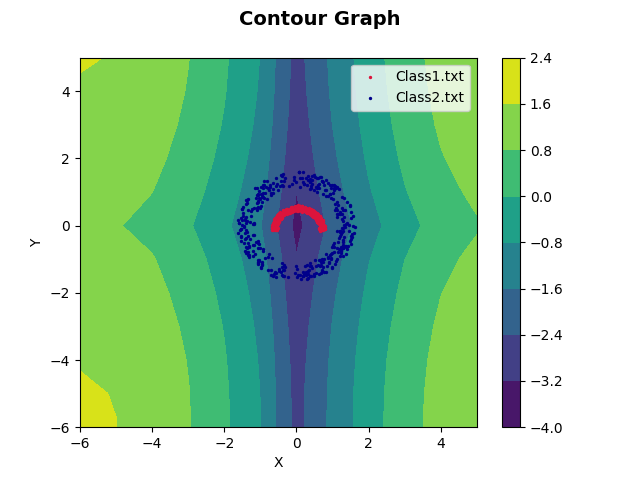
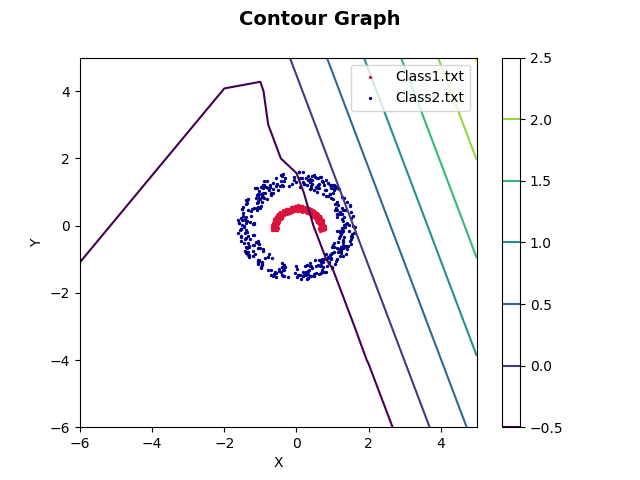
Done.

diff --git a/bayesian_classifier/utils.py b/bayesian_classifier/utils.py
@@ -154,25 +154,29 @@ def plot_contour_graph(calculate_gix, params, margin):
     X = []
     Y = []
 
-    for i in range(int(x_min), int(x_max+100)):
+    for i in range(int(x_min), int(x_max)):
         X.append(i)
-    for j in range(int(y_min), int(y_max+100)):
+    for j in range(int(y_min), int(y_max)):
         Y.append(j)
 
-    Z = [[0 for y in range(len(Y))] for x in range(len(X))]
-    print(X)
-    for i, x in zip(range(len(X)), X):
-        for j, y in zip(range(len(Y)), Y):
+    Z = []
+    for i in range(len(Y)):
+        Z.append([])
+        for j in range(len(X)):
+            Z[i].append(0)
+
+    for i, x in zip(range(len(Y)), Y):
+        for j, y in zip(range(len(X)), X):
             gx = gx_max(calculate_gix, params, [[x], [y]])
             Z[i][j] = gx
-
+    
     fig = plt.figure()
-    fig.suptitle('Contour Graph', fontsize=14, fontweight='bold')
     ax = fig.add_subplot(111)
     ax.set_xlabel('X')
     ax.set_ylabel('Y')
+    fig.suptitle('Contour Graph', fontsize=14, fontweight='bold')
 
-    cp = plt.contourf(Y, X, Z)
+    cp = plt.contourf(X, Y, Z)
     plt.colorbar(cp)
     ax.legend()
 

diff --git a/bayesian_classifier/case_2.py b/bayesian_classifier/case_2.py
@@ -73,16 +73,15 @@ if __name__ == '__main__':
         print("\t" + name + ": " + str(f * 100) + "%")
     print("Mean F-measure: " + str(get_mean_f_measure(get_precision(confusion_matrix), get_recall(confusion_matrix)) * 100) + "%")
     
-    print("Building and saving graph.")
     plt.figure(1)
     plot_decision_boundary(calculate_gix, params, margin)
     plot_dataset(class_names, all_training_sets)
     plt.legend(loc='upper right')
-    plt.savefig(dirname + "Case1 " + (" vs ".join(class_names)) + ".png", format='png')
+    plt.savefig(dirname + "Case2 " + (" vs ".join(class_names)) + ".png", format='png')
     
     plt.figure(2)
     plot_contour_graph(calculate_gix, params, margin)
     plot_dataset(class_names, all_training_sets)
     plt.legend(loc='upper right')
-    plt.savefig(dirname + "Case1 " + (" vs ".join(class_names)) + " contour.png", format='png')
+    plt.savefig(dirname + "Case2 " + (" vs ".join(class_names)) + " contour.png", format='png')
     print("Done.")

diff --git a/bayesian_classifier/case_3.py b/bayesian_classifier/case_3.py
@@ -67,16 +67,15 @@ if __name__ == '__main__':
         print("\t" + name + ": " + str(f * 100) + "%")
     print("Mean F-measure: " + str(get_mean_f_measure(get_precision(confusion_matrix), get_recall(confusion_matrix)) * 100) + "%")
     
-    print("Building and saving graph.")
     plt.figure(1)
     plot_decision_boundary(calculate_gix, params, margin)
     plot_dataset(class_names, all_training_sets)
     plt.legend(loc='upper right')
-    plt.savefig(dirname + "Case1 " + (" vs ".join(class_names)) + ".png", format='png')
+    plt.savefig(dirname + "Case3 " + (" vs ".join(class_names)) + ".png", format='png')
     
     plt.figure(2)
     plot_contour_graph(calculate_gix, params, margin)
     plot_dataset(class_names, all_training_sets)
     plt.legend(loc='upper right')
-    plt.savefig(dirname + "Case1 " + (" vs ".join(class_names)) + " contour.png", format='png')
+    plt.savefig(dirname + "Case3 " + (" vs ".join(class_names)) + " contour.png", format='png')
     print("Done.")

diff --git a/bayesian_classifier/case_4.py b/bayesian_classifier/case_4.py
@@ -67,16 +67,15 @@ if __name__ == '__main__':
         print("\t" + name + ": " + str(f * 100) + "%")
     print("Mean F-measure: " + str(get_mean_f_measure(get_precision(confusion_matrix), get_recall(confusion_matrix)) * 100) + "%")
     
-    print("Building and saving graph.")
     plt.figure(1)
     plot_decision_boundary(calculate_gix, params, margin)
     plot_dataset(class_names, all_training_sets)
     plt.legend(loc='upper right')
-    plt.savefig(dirname + "Case1 " + (" vs ".join(class_names)) + ".png", format='png')
+    plt.savefig(dirname + "Case4 " + (" vs ".join(class_names)) + ".png", format='png')
     
     plt.figure(2)
     plot_contour_graph(calculate_gix, params, margin)
     plot_dataset(class_names, all_training_sets)
     plt.legend(loc='upper right')
-    plt.savefig(dirname + "Case1 " + (" vs ".join(class_names)) + " contour.png", format='png')
+    plt.savefig(dirname + "Case4 " + (" vs ".join(class_names)) + " contour.png", format='png')
     print("Done.")

diff --git a/bayesian_classifier/case_1.py b/bayesian_classifier/case_1.py
@@ -73,7 +73,6 @@ if __name__ == '__main__':
         print("\t" + name + ": " + str(f * 100) + "%")
     print("Mean F-measure: " + str(get_mean_f_measure(get_precision(confusion_matrix), get_recall(confusion_matrix)) * 100) + "%")
     
-    print("Building and saving graph.")
     plt.figure(1)
     plot_decision_boundary(calculate_gix, params, margin)
     plot_dataset(class_names, all_training_sets)
